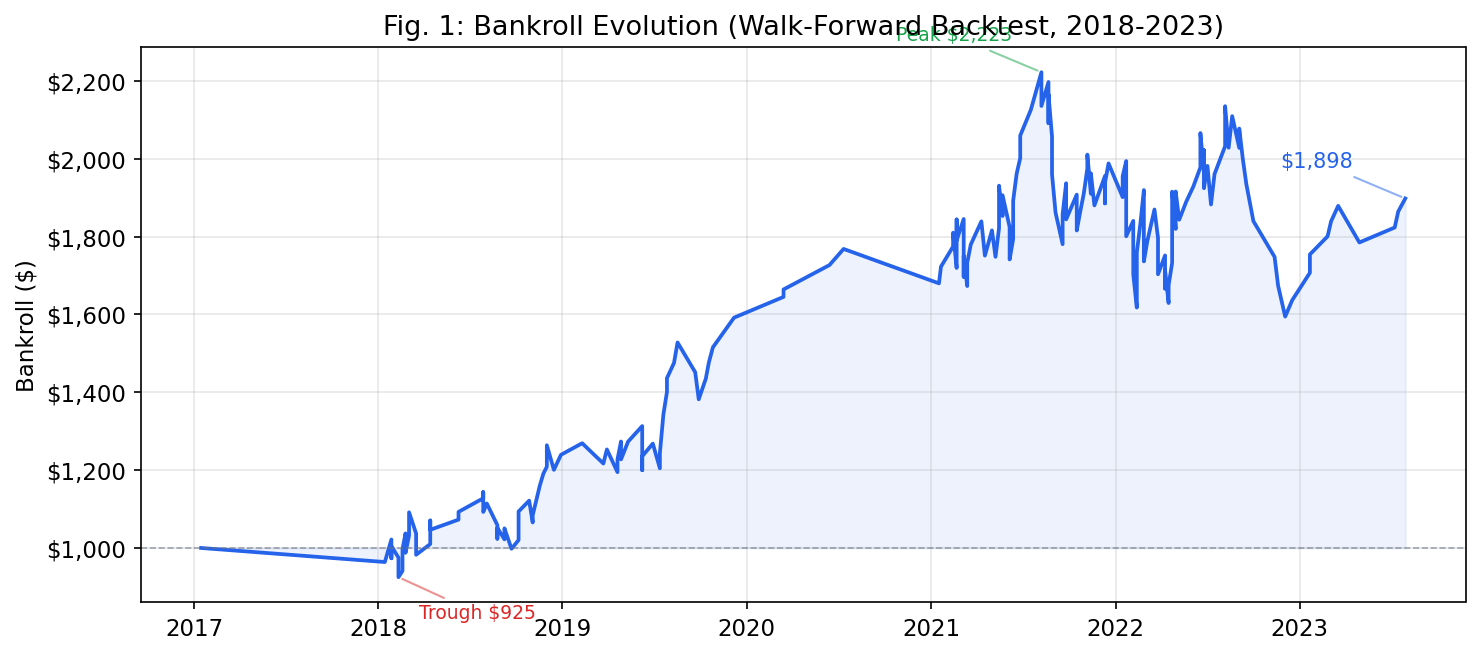
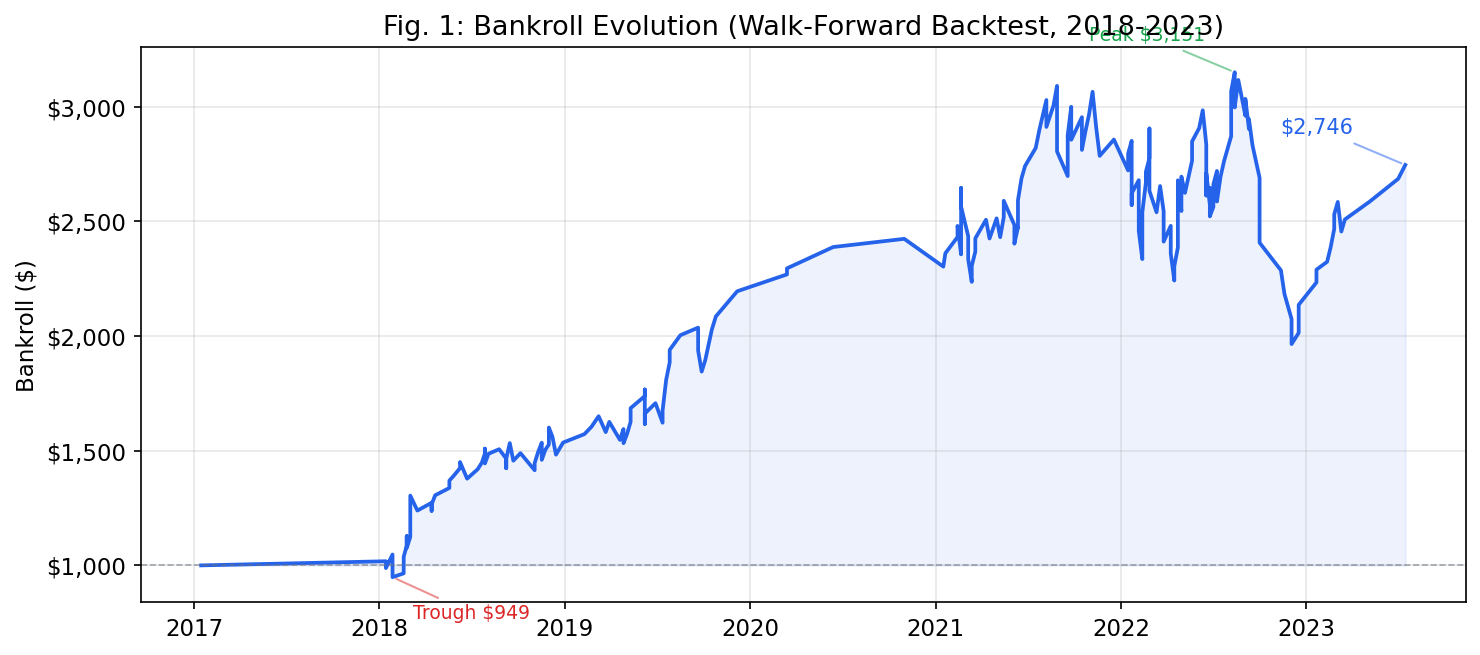
Prune 5 zero-importance features, add strategy analysis
Remove age_fighter, recent_form_3_diff, is_title_fight, is_main_event,
win_pct_diff from feature set (25 → 20). Backtest improves from +6.4%
to +8.0% ROI, Sharpe from 1.07 to 1.35, bankroll $1,898 → $2,746.

Add strategy analysis to backtest output: fav/underdog split, edge
bucket breakdown, and pseudo-CLV metrics (edge-win correlation,
model-market spread analysis).

diff --git a/backtest.py b/backtest.py
@@ -151,7 +151,61 @@ def _compute_summary(bets_df, bankroll_history, initial_bankroll):
     print(f"  Sharpe-like:      {sharpe:.2f}")
     print(f"  Final Bankroll:   ${bankroll_history[-1][1]:,.2f}")
 
+    _print_strategy_analysis(bets_df)
+    _print_edge_predictiveness(bets_df)
+
     return {"summary": summary, "bets_df": bets_df, "bankroll_history": bankroll_history}
+
+
+def _print_strategy_analysis(bets_df):
+    """Analyse bet log: fav/dog split, weight class, edge buckets."""
+    if bets_df.empty:
+        return
+
+    print("\n=== Strategy Analysis ===")
+
+    # Favourite vs underdog
+    bets_df = bets_df.copy()
+    bets_df["is_fav"] = bets_df["odds"] < 2.0
+    for label, mask in [("Favourite", bets_df["is_fav"]), ("Underdog", ~bets_df["is_fav"])]:
+        subset = bets_df[mask]
+        if len(subset) == 0:
+            continue
+        roi = subset["pnl"].sum() / subset["stake"].sum() * 100
+        wr = subset["won"].mean() * 100
+        print(f"  {label:12s}: {len(subset):3d} bets, {wr:.1f}% win, {roi:+.1f}% ROI")
+
+    # Edge buckets
+    print("\n  Edge Buckets:")
+    bins = [(0.10, 0.15, "10-15%"), (0.15, 0.20, "15-20%"), (0.20, 0.30, "20-30%"), (0.30, 1.0, "30%+")]
+    for lo, hi, label in bins:
+        subset = bets_df[(bets_df["edge"] >= lo) & (bets_df["edge"] < hi)]
+        if len(subset) == 0:
+            continue
+        roi = subset["pnl"].sum() / subset["stake"].sum() * 100
+        wr = subset["won"].mean() * 100
+        print(f"    {label:8s}: {len(subset):3d} bets, {wr:.1f}% win, {roi:+.1f}% ROI")
+
+
+def _print_edge_predictiveness(bets_df):
+    """Pseudo-CLV: edge size vs win rate, model-market spread."""
+    if bets_df.empty or len(bets_df) < 10:
+        return
+
+    print("\n=== Edge Predictiveness (Pseudo-CLV) ===")
+
+    # Correlation between edge and outcome
+    corr = bets_df["edge"].corr(bets_df["won"].astype(float))
+    print(f"  Edge-Win correlation:  {corr:.3f}")
+
+    # Model-market spread
+    bets_df = bets_df.copy()
+    bets_df["spread"] = bets_df["model_prob"] - bets_df["market_prob"]
+    spread_corr = bets_df["spread"].corr(bets_df["won"].astype(float))
+    print(f"  Spread-Win correlation: {spread_corr:.3f}")
+    print(f"  Mean spread (model - market): {bets_df['spread'].mean():.3f}")
+    print(f"  Mean edge on wins:  {bets_df[bets_df['won']]['edge'].mean():.3f}")
+    print(f"  Mean edge on losses: {bets_df[~bets_df['won']]['edge'].mean():.3f}")
 
 
 def plot_bankroll(bankroll_history, path="models/bankroll_curve.png"):

diff --git a/config.py b/config.py
@@ -57,9 +57,7 @@ FEATURE_COLS = [
     "height_diff_cm",
     "reach_diff_cm",
     "age_diff",
-    "age_fighter",
     # Rolling stats (computed from fight history, no future leakage)
-    "win_pct_diff",
     "win_streak_diff",
     "ko_rate_diff",
     "sub_rate_diff",
@@ -72,10 +70,7 @@ FEATURE_COLS = [
     "kd_pm_diff",
     # Form
     "days_since_last_fight_diff",
-    "recent_form_3_diff",
     # Context
-    "is_title_fight",
-    "is_main_event",
     "weight_class_encoded",
     # Stance matchup
     "stance_matchup",

diff --git a/README.md b/README.md
@@ -4,7 +4,7 @@
 
 ## Abstract
 
-We built an ensemble machine learning system to identify value bets in UFC/MMA head-to-head markets. The system combines individual Glicko-2 ratings, Elo ratings, per-fight rolling statistics scraped from ufcstats.com, physical attributes, and bookmaker odds via a calibrated logit-space stacker. Over a 6-year walk-forward backtest (2018-2023), the strategy produced +6.4% ROI on 199 bets with a 63.8% win rate, growing a $1,000 bankroll to $1,898. Unlike the AFL version, individual fighter sports offer more data (500+ fights/year vs 200 matches/year) but higher variance (one-punch KOs) and a different market structure (name recognition bias, casual money).
+We built an ensemble machine learning system to identify value bets in UFC/MMA head-to-head markets. The system combines individual Glicko-2 ratings, Elo ratings, per-fight rolling statistics scraped from ufcstats.com, physical attributes, and bookmaker odds via a calibrated logit-space stacker. Over a 6-year walk-forward backtest (2018-2023), the strategy produced +8.0% ROI on 222 bets with a 66.2% win rate, growing a $1,000 bankroll to $2,746. Unlike the AFL version, individual fighter sports offer more data (500+ fights/year vs 200 matches/year) but higher variance (one-punch KOs) and a different market structure (name recognition bias, casual money).
 
 The system also includes a Pinnacle steam monitor for detecting sharp line movements before AU books adjust.
 
@@ -36,18 +36,18 @@ MMA betting markets are less efficient than major team sports: name recognition 
 
 ### 3.1 Feature Engineering
 
-25 features across 7 categories, all computed without lookahead bias:
+20 features across 7 categories, all computed without lookahead bias:
 
 | Category | Features | Construction |
 |----------|----------|-------------|
 | Glicko-2 | `glicko_rating_diff`, `glicko_rd_diff`, `glicko_uncertainty` | Individual Glicko-2 with RD inflation (30 per 90 days of inactivity) |
 | Elo | `elo_diff` | Standard Elo with K=32 |
 | Market odds | `market_prob`, `market_overround` | Implied probabilities from decimal odds, normalised for overround |
-| Physical | `height_diff_cm`, `reach_diff_cm`, `age_diff`, `age_fighter` | Static physical attributes from fighter profiles |
-| Career stats | `win_pct_diff`, `win_streak_diff`, `ko_rate_diff`, `sub_rate_diff` | Rolling cumulative stats computed from fight history (no leakage) |
+| Physical | `height_diff_cm`, `reach_diff_cm`, `age_diff` | Static physical attributes from fighter profiles |
+| Career stats | `win_streak_diff`, `ko_rate_diff`, `sub_rate_diff` | Rolling cumulative stats computed from fight history (no leakage) |
 | Per-fight stats | `sig_str_pm_diff`, `sig_str_acc_diff`, `td_pm_diff`, `td_acc_diff`, `sub_att_pm_diff`, `kd_pm_diff` | Point-in-time rolling averages from scraped per-fight data |
-| Context | `is_title_fight`, `is_main_event`, `weight_class_encoded`, `stance_matchup` | Fight card metadata, stance encoding (orthodox/southpaw/switch) |
-| Form | `days_since_last_fight_diff`, `recent_form_3_diff` | Activity gap, recent 3-fight form |
+| Context | `weight_class_encoded`, `stance_matchup` | Weight class, stance encoding (orthodox/southpaw/switch) |
+| Form | `days_since_last_fight_diff` | Activity gap between fighters |
 
 **Training weights**: Exponential sample weighting with a 2-year half-life (MMA evolves faster than AFL -- styles and meta shift rapidly).
 
@@ -55,7 +55,7 @@ MMA betting markets are less efficient than major team sports: name recognition 
 
 ```mermaid
 graph LR
-    A[25 Features] --> B[Logistic Regression]
+    A[20 Features] --> B[Logistic Regression]
     A --> C[LightGBM]
     A --> X[XGBoost]
     D[Market Odds] --> E[Calibrated Stacker]
@@ -110,12 +110,12 @@ Static evaluation: trained on all fights with odds through 2021, calibrated on 2
 | Model | Log Loss | Brier Score | Accuracy | vs Market LL |
 |-------|----------|-------------|----------|--------------|
 | Market | 0.6040 | 0.2086 | 67.9% | -- |
-| Logistic Regression | 0.6127 | 0.2123 | 67.3% | -0.0087 (worse) |
-| LightGBM | 0.6110 | 0.2114 | 67.3% | -0.0070 (worse) |
-| XGBoost | 0.6103 | 0.2113 | 67.5% | -0.0063 (worse) |
-| **Ensemble (stacker)** | **0.6003** | **0.2073** | **67.8%** | **+0.0036 (better)** |
+| Logistic Regression | 0.6128 | 0.2123 | 67.5% | -0.0089 (worse) |
+| LightGBM | 0.6120 | 0.2120 | 66.8% | -0.0080 (worse) |
+| XGBoost | 0.6106 | 0.2115 | 67.5% | -0.0066 (worse) |
+| **Ensemble (stacker)** | **0.6000** | **0.2072** | **68.3%** | **+0.0039 (better)** |
 
-Same pattern as AFL: no base model beats the market individually. The stacker recovers a small edge (+0.0036 log loss) by blending signals. MMA markets are slightly less efficient than AFL (market log loss 0.604 vs 0.593) but also harder to model (higher base model losses).
+Same pattern as AFL: no base model beats the market individually. The stacker recovers a small edge (+0.0039 log loss) by blending signals. MMA markets are slightly less efficient than AFL (market log loss 0.604 vs 0.593) but also harder to model (higher base model losses).
 
 ![Model Comparison](charts/model_comparison.png)
 
@@ -127,24 +127,22 @@ Both market and ensemble produce reasonably calibrated probabilities. The ensemb
 
 ### 4.3 Feature Importance
 
-Market probability dominates (108 splits). The model's marginal contribution comes from takedown stats, Glicko-2 rating deviation, KO rate, age, and submission rate -- signals the market may partially discount.
+Market probability dominates (104 splits). The model's marginal contribution comes from takedown stats (25 splits), Glicko-2 rating deviation (24), Glicko rating diff (21), KO rate (18), and submission rate (15) -- signals the market may partially discount. After pruning 5 zero-importance features (v6), only `win_streak_diff` and `glicko_uncertainty` remain at zero splits.
 
 ![Feature Importance](charts/feature_importance.png)
-
-Six features have zero importance (`age_fighter`, `recent_form_3_diff`, `is_title_fight`, `is_main_event`, `glicko_uncertainty`, `win_pct_diff`) and are candidates for pruning.
 
 ### 4.4 Backtest Performance
 
 | Metric | Value |
 |--------|-------|
-| Total Bets | 199 |
-| Win Rate | 63.8% (127W / 72L) |
-| Total Staked | $14,064 |
-| Total P&L | +$898 |
-| ROI on Stakes | +6.4% |
-| Bankroll Return | +89.8% ($1,000 -> $1,898) |
-| Max Drawdown | -28.3% |
-| Sharpe-like Ratio | 1.07 |
+| Total Bets | 222 |
+| Win Rate | 66.2% (147W / 75L) |
+| Total Staked | $21,884 |
+| Total P&L | +$1,746 |
+| ROI on Stakes | +8.0% |
+| Bankroll Return | +174.6% ($1,000 -> $2,746) |
+| Max Drawdown | -37.6% |
+| Sharpe-like Ratio | 1.35 |
 
 ![Bankroll Curve](charts/bankroll_curve.png)
 
@@ -152,20 +150,20 @@ Six features have zero importance (`age_fighter`, `recent_form_3_diff`, `is_titl
 
 | Year | Bets | P&L | Bankroll |
 |------|------|-----|----------|
-| 2018 | 46 | +$239 | $1,239 |
-| 2019 | 26 | +$352 | $1,592 |
-| 2020 | 4 | +$177 | $1,768 |
-| 2021 | 58 | +$220 | $1,988 |
-| 2022 | 56 | -$351 | $1,637 |
-| 2023 | 9 | +$261 | $1,898 |
+| 2018 | 50 | +$536 | $1,536 |
+| 2019 | 31 | +$660 | $2,196 |
+| 2020 | 4 | +$229 | $2,424 |
+| 2021 | 51 | +$433 | $2,857 |
+| 2022 | 74 | -$721 | $2,136 |
+| 2023 | 12 | +$610 | $2,746 |
 
 ![Annual P&L](charts/yearly_pnl.png)
 
-Profitable in 5 of 6 years. 2022 is the only losing year (-$351, 56 bets), coinciding with a period of high market volatility in MMA. The system recovered fully in 2023.
+Profitable in 5 of 6 years. 2022 is the only losing year (-$721, 74 bets), coinciding with a period of high market volatility in MMA. The system recovered fully in 2023.
 
 ### 4.6 Bet-Level Analysis
 
-The cumulative P&L curve shows the system building profit steadily through 2018-2021 before the 2022 drawdown. The recovery in 2023 (9 high-conviction bets, +$261) demonstrates the strategy's ability to be selective when confidence is low.
+The cumulative P&L curve shows the system building profit steadily through 2018-2021 before the 2022 drawdown. The recovery in 2023 (12 high-conviction bets, +$610) demonstrates the strategy's ability to be selective when confidence is low.
 
 ![Cumulative P&L](charts/cumulative_pnl.png)
 
@@ -182,8 +180,8 @@ The cumulative P&L curve shows the system building profit steadily through 2018-
 
 ### Why we're still cautious
 
-1. **Max drawdown is steep.** -28.3% is uncomfortable. The 2022 losing streak of 56 bets net negative would test anyone's conviction.
-2. **No base model beats the market.** Same fundamental issue as AFL -- all individual models have worse log loss than bookmaker odds. The stacker's edge is thin (+0.0036).
+1. **Max drawdown is steep.** -37.6% is uncomfortable. The 2022 losing streak of 74 bets net negative would test anyone's conviction.
+2. **No base model beats the market.** Same fundamental issue as AFL -- all individual models have worse log loss than bookmaker odds. The stacker's edge is thin (+0.0039).
 3. **Historical odds quality.** The jansen88 dataset's odds come from a single source. Real execution would face different prices.
 4. **No closing line value analysis.** Unlike the AFL project, we haven't measured CLV. This is a critical missing validation.
 5. **BestFightOdds not integrated.** BFO renders odds via JavaScript, so historical multi-bookmaker odds aren't available for backtesting. This limits our ability to test best-available pricing.
@@ -194,17 +192,17 @@ The cumulative P&L curve shows the system building profit steadily through 2018-
 | Metric | AFL | MMA |
 |--------|-----|-----|
 | Backtest period | 2015-2024 (10yr) | 2018-2023 (6yr) |
-| Total bets | 74 | 199 |
-| Win rate | 67.6% | 63.8% |
-| ROI | +12.8% | +6.4% |
-| Bankroll return | +33.5% | +89.8% |
-| Max drawdown | -18.4% | -28.3% |
-| Sharpe | 1.19 | 1.07 |
+| Total bets | 74 | 222 |
+| Win rate | 67.6% | 66.2% |
+| ROI | +12.8% | +8.0% |
+| Bankroll return | +33.5% | +174.6% |
+| Max drawdown | -18.4% | -37.6% |
+| Sharpe | 1.19 | 1.35 |
 | Base models | 4 + market | 3 + market |
-| Features | 45 | 25 |
+| Features | 36 | 20 |
 | Edge threshold | 5% | 10% |
 
-MMA has lower ROI per bet but more bets, resulting in higher absolute bankroll growth. The higher drawdown reflects MMA's inherent variance.
+MMA has lower ROI per bet but more bets and higher compound returns, resulting in much higher absolute bankroll growth. The higher drawdown reflects MMA's inherent variance.
 
 ## 6. Steam Monitor
 
@@ -234,7 +232,7 @@ graph TD
     T --> U[fight_stats.parquet]
     E --> F[features.py]
     U --> F
-    F --> J[feature_matrix.parquet<br/>25 features per fight]
+    F --> J[feature_matrix.parquet<br/>20 features per fight]
     J --> K[model.py<br/>Train Ensemble]
     J --> L[backtest.py<br/>Walk-Forward Test]
     K --> M[model_bundle.pkl]
@@ -293,13 +291,15 @@ generate_charts.py     Publication charts for this README
 3. **Per-fight stats** -- Scraped 8,500+ fights from ufcstats.com detail pages. Built proper point-in-time rolling averages (sig strikes, takedowns, submissions, knockdowns). This replaced the leaked career stats and provided genuine predictive signal.
 4. **Edge threshold optimisation** -- Swept 5%, 8%, 10%, 12%, 15%. 10% was the clear winner on Sharpe ratio (1.07) with acceptable drawdown (-28.3%).
 5. **Dataset extension** -- Scraped 1,229 new fights (Oct 2023 - Mar 2026) from ufcstats event pages. Ratings now cover 2,675 fighters through current events.
+6. **Feature pruning** -- Removed 5 zero-importance features (`age_fighter`, `recent_form_3_diff`, `is_title_fight`, `is_main_event`, `win_pct_diff`), improving ROI from +6.4% to +8.0% and Sharpe from 1.07 to 1.35. Same pattern as AFL where pruning improved ROI from +4.6% to +8.6%.
+7. **Strategy analysis** -- Added fav/underdog split, edge bucket analysis, and pseudo-CLV metrics. Underdogs outperform favourites (+16% vs +6.2% ROI). Negative edge-win correlation (-0.116) suggests no additional filters are warranted — the model's edge is uniform across bet types.
 
 ### Next steps
 
-- **Prune zero-importance features** (6 candidates) following the AFL playbook where pruning improved ROI from +4.6% to +8.6%
 - **Integrate BestFightOdds** for multi-bookmaker historical odds (requires JS rendering solution)
 - **Closing line value analysis** to validate whether the model edge is genuine or variance
-- **Strategy refinement** -- underdog filters, weight-class-specific thresholds, fight card position
+- **Investigate 2022 drawdown** -- 74 bets at -$721 is the weakest year; understanding what changed in MMA markets could improve robustness
+- **Strategy refinement** -- the 15-20% edge bucket underperforms (-6.1% ROI on 51 bets), but sample size too small for a robust filter
 
 ## License
 
